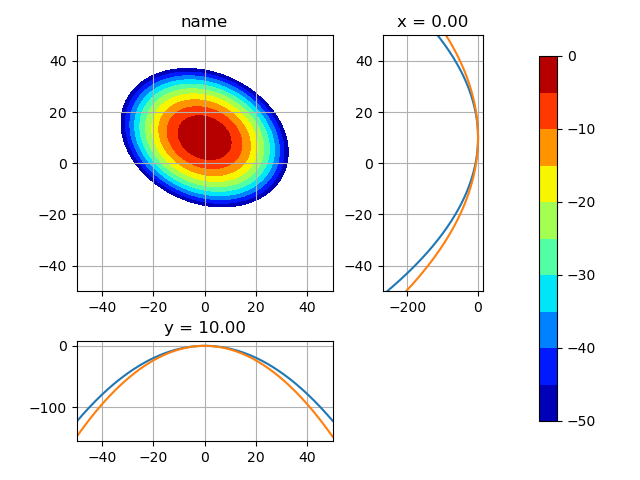
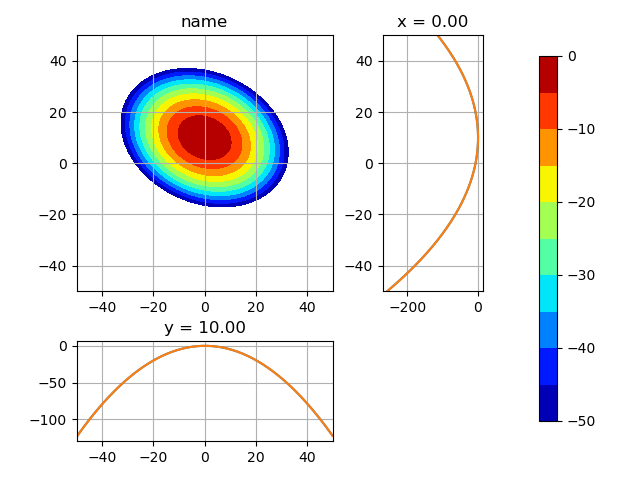
gaussina config

diff --git a/src/profile.py b/src/profile.py
@@ -77,7 +77,7 @@ def get_wxy(mesh, func):
     cov = get_cov(mesh, func, sxy)
     wxy, mat = np.linalg.eig(cov)
     wxy = np.sqrt(wxy)
-    rot = -np.arcsin(mat[0, 1])
+    rot = np.arcsin(mat[0, 1])
     #print (wxy, np.rad2deg(-np.arcsin(mat[0, 1])), np.rad2deg(np.arccos(mat[0, 0])))
     """if wxy[0] > wxy[1]:
         rot = np.pi/2 - (-np.arcsin(mat[0, 1]))

diff --git a/PlotGaussian/plot_gauss.py b/PlotGaussian/plot_gauss.py
@@ -1,3 +1,4 @@
+import shutil
 import numpy as np
 import matplotlib.pyplot as plt
 import sys
@@ -45,3 +46,4 @@ if __name__ == '__main__':
     obj.tmpdir = "./img/"
     obj.tempname = obj.tmpdir + "gaussian"
     obj.profile_out()
+    shutil.copyfile(obj.cfg_txt, obj.tempname + ".txt")
